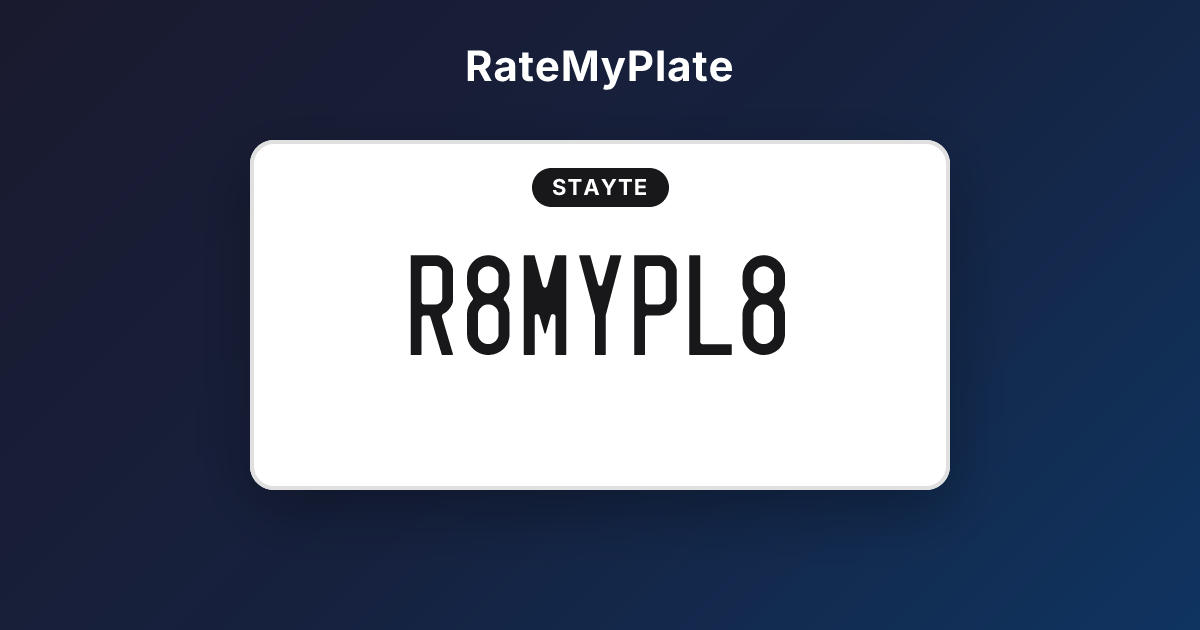
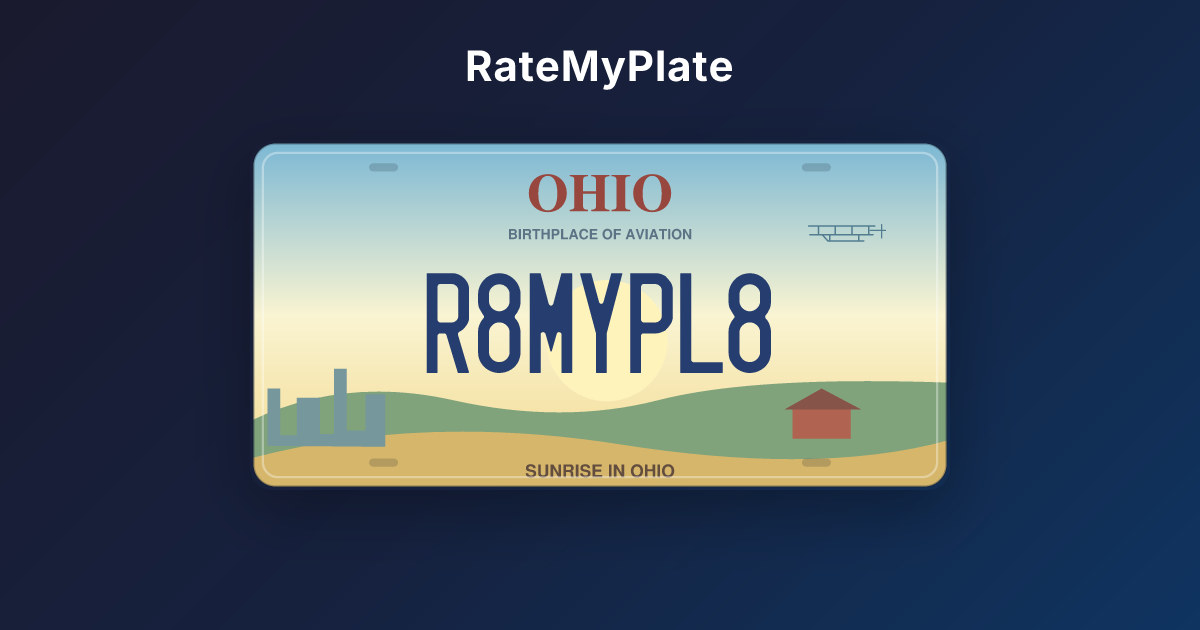
Fix share preview origins and default general shares to Ohio

diff --git a/src/app/api/og/route.tsx b/src/app/api/og/route.tsx
@@ -5,18 +5,14 @@ import { database } from '@/db/database';
 import { plate_reviews } from '@/db/schema';
 import { avg, eq } from 'drizzle-orm';
 import { getPlateArtwork, PLATE_WIDTH } from '@/lib/plate-artwork';
+import { DEFAULT_SHARE_PLATE, DEFAULT_SHARE_STATE } from '@/lib/share-metadata';
 
 export async function GET(request: Request) {
   const { searchParams } = new URL(request.url);
-  const stateParam = searchParams.get('state');
-  const plateParam = searchParams.get('plate');
-
-  if (!stateParam || !plateParam) {
-    return new Response('Missing state or plate query params', { status: 400 });
-  }
-
-  const plateNumber = plateParam.toUpperCase();
-  const stateUpper = stateParam.toUpperCase();
+  const stateParam = searchParams.get('state')?.trim();
+  const plateParam = searchParams.get('plate')?.trim();
+  const plateNumber = (plateParam || DEFAULT_SHARE_PLATE).toUpperCase();
+  const stateUpper = (stateParam || DEFAULT_SHARE_STATE).toUpperCase();
   const artwork = getPlateArtwork(stateUpper);
   const serial = artwork.serial;
   const plateScale = 700 / PLATE_WIDTH;
@@ -35,21 +31,24 @@ export async function GET(request: Request) {
   // Look up plate and average rating
   let avgRating: number | null = null;
 
-  const plateRecord = await database.query.plates.findFirst({
-    where: (plates, { and, eq }) =>
-      and(eq(plates.state, stateUpper), eq(plates.plateNumber, plateNumber)),
-  });
+  // General site and state shares use a sample serial, without a rating lookup.
+  if (plateParam) {
+    const plateRecord = await database.query.plates.findFirst({
+      where: (plates, { and, eq }) =>
+        and(eq(plates.state, stateUpper), eq(plates.plateNumber, plateNumber)),
+    });
 
-  if (plateRecord) {
-    const [stats] = await database
-      .select({
-        avgRating: avg(plate_reviews.rating),
-      })
-      .from(plate_reviews)
-      .where(eq(plate_reviews.plateId, plateRecord.id));
+    if (plateRecord) {
+      const [stats] = await database
+        .select({
+          avgRating: avg(plate_reviews.rating),
+        })
+        .from(plate_reviews)
+        .where(eq(plate_reviews.plateId, plateRecord.id));
 
-    if (stats) {
-      avgRating = stats.avgRating == null ? null : Number(stats.avgRating);
+      if (stats) {
+        avgRating = stats.avgRating == null ? null : Number(stats.avgRating);
+      }
     }
   }
 

diff --git a/src/app/(public)/[state]/[plate]/page.tsx b/src/app/(public)/[state]/[plate]/page.tsx
@@ -1,5 +1,5 @@
 import type { plates } from '@/db/schema';
-import { validateLicensePlate } from '@/lib/plates';
+import { decodePlateNumber, validateLicensePlate } from '@/lib/plates';
 import { stateNameValidator, usStateName } from '@/lib/us-states';
 import { database } from '@/db/database';
 type Plate = typeof plates.$inferSelect;
@@ -24,6 +24,7 @@ import { plate_reviews } from '@/db/schema';
 import { avg, count, eq, max } from 'drizzle-orm';
 import { formatDistanceToNow } from 'date-fns';
 import InlineSearch from '@/components/public/inline-search';
+import { getShareImages } from '@/lib/share-metadata';
 
 export const dynamic = 'force-dynamic';
 
@@ -37,7 +38,7 @@ export async function generateMetadata(
 ): Promise<Metadata> {
   const { state, plate } = await params;
   const upperState = state.toUpperCase();
-  const upperPlate = plate.toUpperCase();
+  const upperPlate = decodePlateNumber(plate);
 
   if (
     !validateLicensePlate(upperPlate, 'US') ||
@@ -52,26 +53,14 @@ export async function generateMetadata(
   return {
     title: `${upperPlate} in ${upperState}`,
     description: `View comments for license plate ${upperPlate} in ${upperState}`,
-    openGraph: {
-      images: [
-        {
-          url: `/api/og?state=${upperState}&plate=${upperPlate}`,
-          width: 1200,
-          height: 630,
-        },
-      ],
-    },
-    twitter: {
-      card: 'summary_large_image',
-      images: [`/api/og?state=${upperState}&plate=${upperPlate}`],
-    },
+    ...getShareImages(upperState, upperPlate),
   };
 }
 
 export default async function PlatePage({ params }: Props) {
   const { state, plate: plateNumber } = await params;
   const upperState = state.toUpperCase();
-  const upperPlate = plateNumber.toUpperCase();
+  const upperPlate = decodePlateNumber(plateNumber);
 
   if (
     !validateLicensePlate(upperPlate, 'US') ||

diff --git a/src/lib/share-metadata.ts b/src/lib/share-metadata.ts
@@ -1,0 +1,49 @@
+import type { Metadata } from 'next';
+import { getPlateArtwork } from '@/lib/plate-artwork';
+
+export const DEFAULT_SHARE_STATE = 'OH';
+export const DEFAULT_SHARE_PLATE = 'R8MYPL8';
+
+/** Keep crawler image requests on the same deployment as the shared page. */
+export function getShareMetadataBase(requestHeaders: Pick<Headers, 'get'>) {
+  const host =
+    requestHeaders.get('x-forwarded-host')?.split(',')[0].trim() ||
+    requestHeaders.get('host') ||
+    'ratemyplate.wtf';
+  const forwardedProtocol = requestHeaders
+    .get('x-forwarded-proto')
+    ?.split(',')[0].trim();
+  const local = /^(localhost|127\.0\.0\.1|\[::1\])(:\d+)?$/.test(host);
+  const protocol =
+    forwardedProtocol === 'http' || forwardedProtocol === 'https'
+      ? forwardedProtocol
+      : local
+        ? 'http'
+        : 'https';
+
+  return new URL(`${protocol}://${host}`);
+}
+
+export function getShareImages(
+  state = DEFAULT_SHARE_STATE,
+  plateNumber?: string
+): Pick<Metadata, 'openGraph' | 'twitter'> {
+  const artwork = getPlateArtwork(state);
+  const value = plateNumber?.trim().toUpperCase();
+  // A new URL lets preview crawlers refresh the previous placeholder image.
+  const params = new URLSearchParams({ state: artwork.code, v: 'state-plates-2' });
+  if (value) params.set('plate', value);
+
+  const image = {
+    url: `/api/og?${params}`,
+    width: 1200,
+    height: 630,
+    type: 'image/png',
+    alt: `${artwork.name} license plate: ${value || DEFAULT_SHARE_PLATE}`,
+  };
+
+  return {
+    openGraph: { siteName: 'Rate My Plate', images: [image] },
+    twitter: { card: 'summary_large_image', images: [image] },
+  };
+}

diff --git a/src/app/layout.tsx b/src/app/layout.tsx
@@ -3,27 +3,19 @@ import { Inconsolata } from 'next/font/google';
 import './globals.css';
 import { ThemeProvider } from '@/components/theme-prodiver';
 import PlausibleProvider from 'next-plausible';
+import { headers } from 'next/headers';
+import { getShareImages, getShareMetadataBase } from '@/lib/share-metadata';
 
 const inconsolata = Inconsolata({ subsets: ['latin'], display: 'swap' });
 
-export const metadata: Metadata = {
-  metadataBase: new URL('https://ratemyplate.wtf'),
-  title: 'Rate My Plate',
-  description: 'Publicly anonymous rating for drivers',
-  openGraph: {
-    images: [
-      {
-        url: '/og.png',
-        width: 1200,
-        height: 630,
-      },
-    ],
-  },
-  twitter: {
-    card: 'summary_large_image',
-    images: ['/og.png'],
-  },
-};
+export async function generateMetadata(): Promise<Metadata> {
+  return {
+    metadataBase: getShareMetadataBase(await headers()),
+    title: 'Rate My Plate',
+    description: 'Publicly anonymous rating for drivers',
+    ...getShareImages(),
+  };
+}
 
 export default function RootLayout({
   children,

diff --git a/src/app/(public)/[state]/page.tsx b/src/app/(public)/[state]/page.tsx
@@ -11,6 +11,7 @@ import SearchCard from '@/components/public/search-card/search-card';
 
 import type { Metadata, ResolvingMetadata } from 'next';
 import BreadCrumbs from '@/components/bread-crumbs';
+import { getShareImages } from '@/lib/share-metadata';
 
 export const dynamic = 'force-dynamic';
 
@@ -34,6 +35,7 @@ export async function generateMetadata(
   return {
     title: `Plates in ${stateName}`,
     description: `Browse license plates rated in ${stateName}`,
+    ...getShareImages(upperState),
   };
 }
 

diff --git a/src/lib/plates.ts b/src/lib/plates.ts
@@ -3,6 +3,16 @@ export interface Plate {
   plateNumber: string;
 }
 
+/** Route params may still contain escapes for spaces in legacy plate numbers. */
+export function decodePlateNumber(value: string): string {
+  try {
+    return decodeURIComponent(value).toUpperCase();
+  } catch {
+    // Leave malformed escapes for the existing plate validator to reject.
+    return value.toUpperCase();
+  }
+}
+
 export function validateLicensePlate(
   plate: string | null,
   country: string

diff --git a/public/images/state-plates/README.md b/public/images/state-plates/README.md
@@ -15,3 +15,5 @@ Full-size plates, linked thumbnails, loading placeholders, and social preview im
 - Checked full-size plates, thumbnails, and skeletons at viewport widths of 320, 375, 768, and 1440 pixels: no horizontal overflow or aspect-ratio distortion.
 - Visually reviewed a rendered contact sheet of all 50 states, mobile thumbnails, and full-size examples, including the narrower South Dakota and Wyoming text regions.
 - Checked the Ohio state and plate-detail pages, plus generated social previews for Ohio, South Dakota, Wyoming, California, and DC.
+
+Share metadata uses the current deployment's origin, so dev links load dev images. General pages default to an Ohio `R8MYPL8` image; state pages use that state's artwork, and plate pages preserve their state and serial. Open Graph and Twitter use the same versioned image URL. `public/og.png` also contains the Ohio default for clients that retain the old image path.
